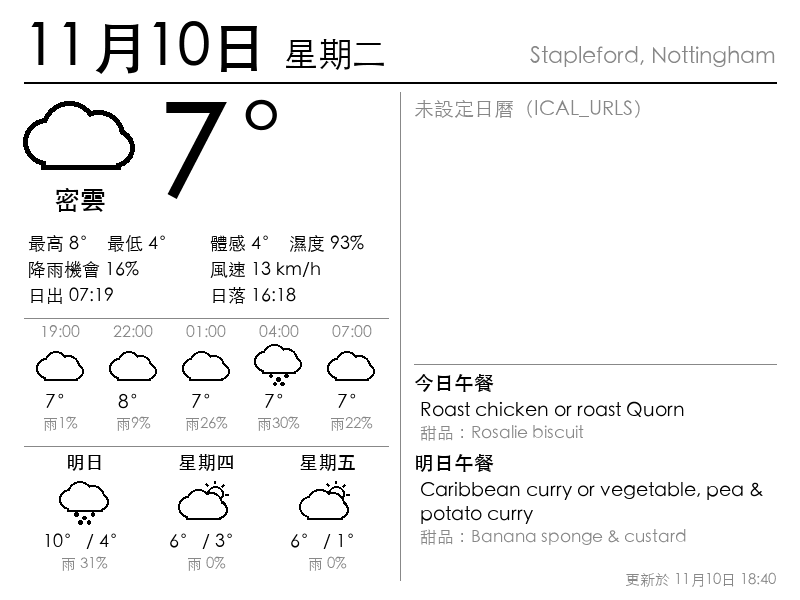
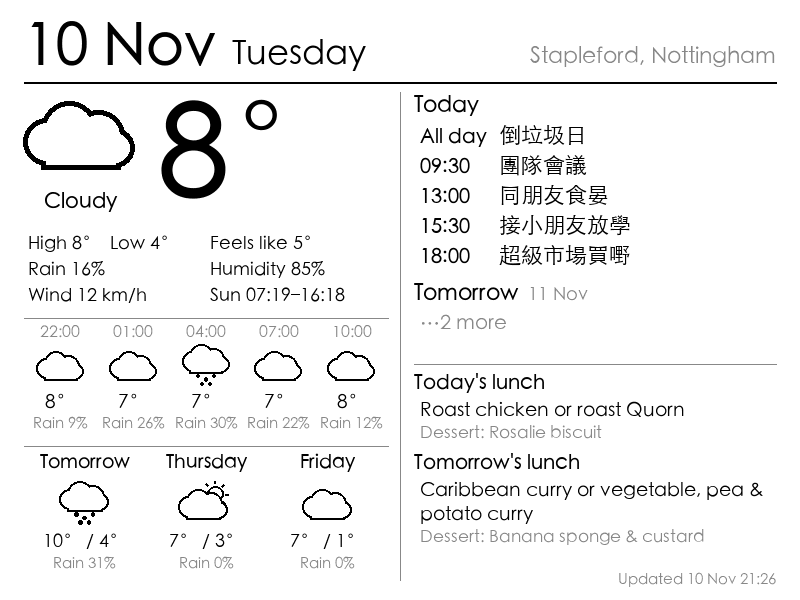
Dashboard in English, with Chinese kept as an option
All labels, the date, weather descriptions, calendar and lunch
headings come from a per-language text table; config.json "language"
picks "en" (now the default) or "zh-HK". The calendar's time column
widens to fit "All day".

diff --git a/renderer/render.py b/renderer/render.py
@@ -103,12 +103,52 @@ def wrap(text, f, max_width, max_lines):
     return [fit(line, f, max_width) for line in lines]
 
 
+# Every word on the dashboard, per language ("language" in config.json).
+TEXT = {
+    "en": {
+        "weekdays": ["Monday", "Tuesday", "Wednesday", "Thursday", "Friday", "Saturday", "Sunday"],
+        "date": lambda d: f"{d.day} {d:%b}",
+        "today": "Today", "tomorrow": "Tomorrow",
+        "details": lambda w, t: [
+            (f"High {deg(t.t_max)}  Low {deg(t.t_min)}", f"Feels like {deg(w.feels)}"),
+            (f"Rain {t.rain}%", f"Humidity {w.humidity}%"),
+            (f"Wind {round(w.wind)} km/h", f"Sun {t.sunrise:%H:%M}–{t.sunset:%H:%M}"),
+        ],
+        "rain": lambda p: f"Rain {p}%",
+        "cal_today": "Today", "no_events": "No events",
+        "more": lambda n: f"…{n} more", "all_day": "All day",
+        "lunch": lambda label: f"{label}'s lunch", "dessert": "Dessert: ",
+        "no_calendar": "Calendar not set up (ICAL_URLS)",
+        "calendar_failed": "Calendar unavailable right now",
+        "updated": lambda d: f"Updated {d.day} {d:%b} {d:%H:%M}",
+    },
+    "zh-HK": {
+        "weekdays": WEEKDAYS,
+        "date": lambda d: f"{d.month}月{d.day}日",
+        "today": "今日", "tomorrow": "明日",
+        "details": lambda w, t: [
+            (f"最高 {deg(t.t_max)}  最低 {deg(t.t_min)}", f"體感 {deg(w.feels)}  濕度 {w.humidity}%"),
+            (f"降雨機會 {t.rain}%", f"風速 {round(w.wind)} km/h"),
+            (f"日出 {t.sunrise:%H:%M}", f"日落 {t.sunset:%H:%M}"),
+        ],
+        "rain": lambda p: f"雨{p}%",
+        "cal_today": "今日行程", "no_events": "冇行程",
+        "more": lambda n: f"…仲有 {n} 項", "all_day": "全日",
+        "lunch": lambda label: f"{label}午餐", "dessert": "甜品：",
+        "no_calendar": "未設定日曆（ICAL_URLS）",
+        "calendar_failed": "日曆暫時讀取唔到",
+        "updated": lambda d: f"更新於 {d.month}月{d.day}日 {d:%H:%M}",
+    },
+}
+T = TEXT["en"]  # set from config in render()
+
+
 def day_label(day, today):
     if day == today:
-        return "今日"
+        return T["today"]
     if day == today + timedelta(days=1):
-        return "明日"
-    return WEEKDAYS[day.weekday()]
+        return T["tomorrow"]
+    return T["weekdays"][day.weekday()]
 
 
 def deg(value):
@@ -119,6 +159,9 @@ def deg(value):
 
 
 def render(cfg, weather, events, calendar_note, now, lunches=()):
+    global T
+    lang = cfg.get("language", "en")
+    T = TEXT.get(lang, TEXT["en"])
     img = Image.new("L", (WIDTH, HEIGHT), WHITE)
     d = ImageDraw.Draw(img)
     today = now.date()
@@ -127,10 +170,10 @@ def render(cfg, weather, events, calendar_note, now, lunches=()):
 
     # Header across the top: date, weekday, place.
     # Placed by baseline ("ls" anchor) so Noto and the Mac preview fonts line up.
-    date_text = f"{now.month}月{now.day}日"
+    date_text = T["date"](now)
     d.text((MARGIN, 68), date_text, font=font(58, "bold"), fill=BLACK, anchor="ls")
     date_w = text_width(date_text, font(58, "bold"))
-    d.text((MARGIN + date_w + 16, 66), WEEKDAYS[now.weekday()], font=font(34), fill=BLACK, anchor="ls")
+    d.text((MARGIN + date_w + 16, 66), T["weekdays"][now.weekday()], font=font(34), fill=BLACK, anchor="ls")
     place = cfg["location_name"]
     d.text((right - text_width(place, font(22)), 64), place, font=font(22), fill=GREY, anchor="ls")
     d.line([(MARGIN, 82), (right, 82)], fill=BLACK, width=2)
@@ -140,19 +183,16 @@ def render(cfg, weather, events, calendar_note, now, lunches=()):
     # temperature can be big.
     today_forecast = weather.days[0]
     draw_icon(d, weather.code, MARGIN + 56, 140, 104, night=not weather.is_day)
-    _centred(d, MARGIN + 56, 186, describe(weather.code), font(26, "bold"), BLACK)
+    desc_font = font(26 if lang != "en" else 21, "bold")
+    _centred(d, MARGIN + 56, 186 if lang != "en" else 190,
+             fit(describe(weather.code, lang), desc_font, 132), desc_font, BLACK)
     d.text((158, 204), deg(weather.temp), font=font(128, "bold"), fill=BLACK, anchor="ls")
 
-    details = [
-        (f"最高 {deg(today_forecast.t_max)}  最低 {deg(today_forecast.t_min)}",
-         f"體感 {deg(weather.feels)}  濕度 {weather.humidity}%"),
-        (f"降雨機會 {today_forecast.rain}%", f"風速 {round(weather.wind)} km/h"),
-        (f"日出 {today_forecast.sunrise:%H:%M}", f"日落 {today_forecast.sunset:%H:%M}"),
-    ]
     half = (left_end - MARGIN) / 2
-    for i, pair in enumerate(details):
+    for i, pair in enumerate(T["details"](weather, today_forecast)):
         for j, line in enumerate(pair):
-            d.text((MARGIN + 4 + j * half, 234 + i * 26), line, font=font(18), fill=BLACK)
+            d.text((MARGIN + 4 + j * half, 234 + i * 26), fit(line, font(18), half - 8),
+                   font=font(18), fill=BLACK)
 
     d.line([(MARGIN, 318), (left_end, 318)], fill=GREY, width=1)
 
@@ -163,7 +203,7 @@ def render(cfg, weather, events, calendar_note, now, lunches=()):
         _centred(d, cx, 324, f"{hour.time:%H:%M}", font(16), GREY)
         draw_icon(d, hour.code, cx, 368, 44, night=not hour.is_day)
         _centred(d, cx, 392, deg(hour.temp), font(19), BLACK)
-        _centred(d, cx, 416, f"雨{hour.rain}%", font(15), GREY)
+        _centred(d, cx, 416, T["rain"](hour.rain), font(15), GREY)
 
     d.line([(MARGIN, 446), (left_end, 446)], fill=GREY, width=1)
 
@@ -175,7 +215,7 @@ def render(cfg, weather, events, calendar_note, now, lunches=()):
         _centred(d, x + col_w / 2, 452, day_label(day.date, today), font(19, "bold"), BLACK)
         draw_icon(d, day.code, x + col_w / 2, 506, 46)
         _centred(d, x + col_w / 2, 532, f"{deg(day.t_max)} / {deg(day.t_min)}", font(18), BLACK)
-        _centred(d, x + col_w / 2, 556, f"雨 {day.rain}%", font(15), GREY)
+        _centred(d, x + col_w / 2, 556, T["rain"](day.rain), font(15), GREY)
 
     # --- Right column: calendar, then school lunch (only if there is a menu).
     col_left = SPLIT + 14
@@ -190,7 +230,7 @@ def render(cfg, weather, events, calendar_note, now, lunches=()):
 
     # Footer under the calendar. The strip right of MARGIN is left blank:
     # the Kindle prints its battery level there, sideways.
-    stamp = f"更新於 {now.month}月{now.day}日 {now:%H:%M}"
+    stamp = T["updated"](now)
     d.text((right - text_width(stamp, font(15)), 572), stamp, font=font(15), fill=GREY)
 
     # Turn it to the Kindle's portrait frame. With the buttons on the right the
@@ -213,7 +253,7 @@ LUNCH_HEAD, LUNCH_MAIN, LUNCH_DESSERT = 28, 24, 22  # line heights
 
 def _lunch_lines(lunch, width):
     main = wrap(lunch.main, font(19), width, 2)
-    dessert = [fit("甜品：" + lunch.dessert, font(17), width)] if lunch.dessert else []
+    dessert = [fit(T["dessert"] + lunch.dessert, font(17), width)] if lunch.dessert else []
     return main, dessert
 
 
@@ -228,7 +268,7 @@ def _lunch_height(lunches, width):
 def _draw_lunches(d, lunches, today, left, right, y):
     for lunch in lunches:
         main, dessert = _lunch_lines(lunch, right - left - 6)
-        d.text((left, y), f"{day_label(lunch.day, today)}午餐", font=font(20, "bold"), fill=BLACK)
+        d.text((left, y), T["lunch"](day_label(lunch.day, today)), font=font(20, "bold"), fill=BLACK)
         y += LUNCH_HEAD
         for line in main:
             d.text((left + 6, y), line, font=font(19), fill=BLACK)
@@ -242,10 +282,12 @@ def _draw_lunches(d, lunches, today, left, right, y):
 def _draw_calendar(d, events, note, today, left, right, top, bottom):
     row_h = 30
     title_font, time_font, heading_font = font(22), font(20, "bold"), font(22, "bold")
+    # Titles start after the widest time label ("09:30" or "All day").
+    title_x = round(max(text_width("00:00", time_font), text_width(T["all_day"], time_font))) + 18
     y = top
 
     if note:
-        d.text((left, y + 4), note, font=font(20), fill=GREY)
+        d.text((left, y + 4), T[note], font=font(20), fill=GREY)
         return
 
     days = sorted({e.day for e in events} | {today})
@@ -254,26 +296,26 @@ def _draw_calendar(d, events, note, today, left, right, top, bottom):
         if y + row_h > bottom:
             break
 
-        heading = f"{day_label(day, today)}行程" if day == today else day_label(day, today)
+        heading = T["cal_today"] if day == today else day_label(day, today)
         d.text((left, y), heading, font=heading_font, fill=BLACK)
         if day != today:
             d.text((left + text_width(heading, heading_font) + 10, y + 3),
-                   f"{day.month}月{day.day}日", font=font(18), fill=GREY)
+                   T["date"](day), font=font(18), fill=GREY)
         y += row_h
 
         if not todays:
-            d.text((left + 6, y), "冇行程", font=font(20), fill=GREY)
+            d.text((left + 6, y), T["no_events"], font=font(20), fill=GREY)
             y += row_h
             continue
 
         for i, event in enumerate(todays):
             remaining = len(todays) - i
             if y + row_h > bottom or (remaining > 1 and y + 2 * row_h > bottom):
-                d.text((left + 6, y), f"…仲有 {remaining} 項", font=font(20), fill=GREY)
+                d.text((left + 6, y), T["more"](remaining), font=font(20), fill=GREY)
                 return
-            when = "全日" if event.start is None else f"{event.start:%H:%M}"
+            when = T["all_day"] if event.start is None else f"{event.start:%H:%M}"
             d.text((left + 6, y + 2), when, font=time_font, fill=BLACK)
-            d.text((left + 76, y), fit(event.title, title_font, right - left - 76),
+            d.text((left + title_x, y), fit(event.title, title_font, right - left - title_x),
                    font=title_font, fill=BLACK)
             y += row_h
         y += 8
@@ -305,9 +347,9 @@ def main():
         urls = [u for u in re.split(r"[\s,]+", os.environ.get("ICAL_URLS", "")) if u]
         events, failed = data.fetch_events(urls, tz, now, cfg.get("calendar_days", 2))
         if not urls:
-            note = "未設定日曆（ICAL_URLS）"
+            note = "no_calendar"
         elif failed == len(urls):
-            note = "日曆暫時讀取唔到"
+            note = "calendar_failed"
 
     lunches = data.load_lunches(args.menus, now.date())
     image = render(cfg, weather, events, note, now, lunches)

diff --git a/renderer/icons.py b/renderer/icons.py
@@ -40,7 +40,20 @@ WMO = {
 }
 
 
-def describe(code):
+ENGLISH = {
+    0: "Clear", 1: "Mostly clear", 2: "Partly cloudy", 3: "Cloudy",
+    45: "Fog", 48: "Fog",
+    51: "Light drizzle", 53: "Drizzle", 55: "Heavy drizzle", 56: "Icy drizzle", 57: "Icy drizzle",
+    61: "Light rain", 63: "Rain", 65: "Heavy rain", 66: "Icy rain", 67: "Icy rain",
+    71: "Light snow", 73: "Snow", 75: "Heavy snow", 77: "Snow grains",
+    80: "Showers", 81: "Showers", 82: "Heavy showers", 85: "Snow showers", 86: "Snow showers",
+    95: "Thunder", 96: "Thunder, hail", 99: "Thunder, hail",
+}
+
+
+def describe(code, lang="zh-HK"):
+    if lang == "en":
+        return ENGLISH.get(code, "—")
     return WMO.get(code, ("—", "cloudy"))[0]
 
 

diff --git a/README.md b/README.md
@@ -57,6 +57,8 @@ ICAL_URLS="你的iCal連結" .venv/bin/python renderer/render.py
 
 **改地點：**打開 `renderer/config.json`，改 `location_name`、`latitude`、`longitude`。用城市中心座標就得，唔好用屋企準確位置，因為呢個檔案會公開喺 GitHub。
 
+**改語言：**`renderer/config.json` 嘅 `language`：`"en"` 係英文（預設），`"zh-HK"` 係中文。
+
 ## 步驟 2：攞 Google Calendar 私人連結
 
 1. 用電腦開 [Google Calendar](https://calendar.google.com)。
